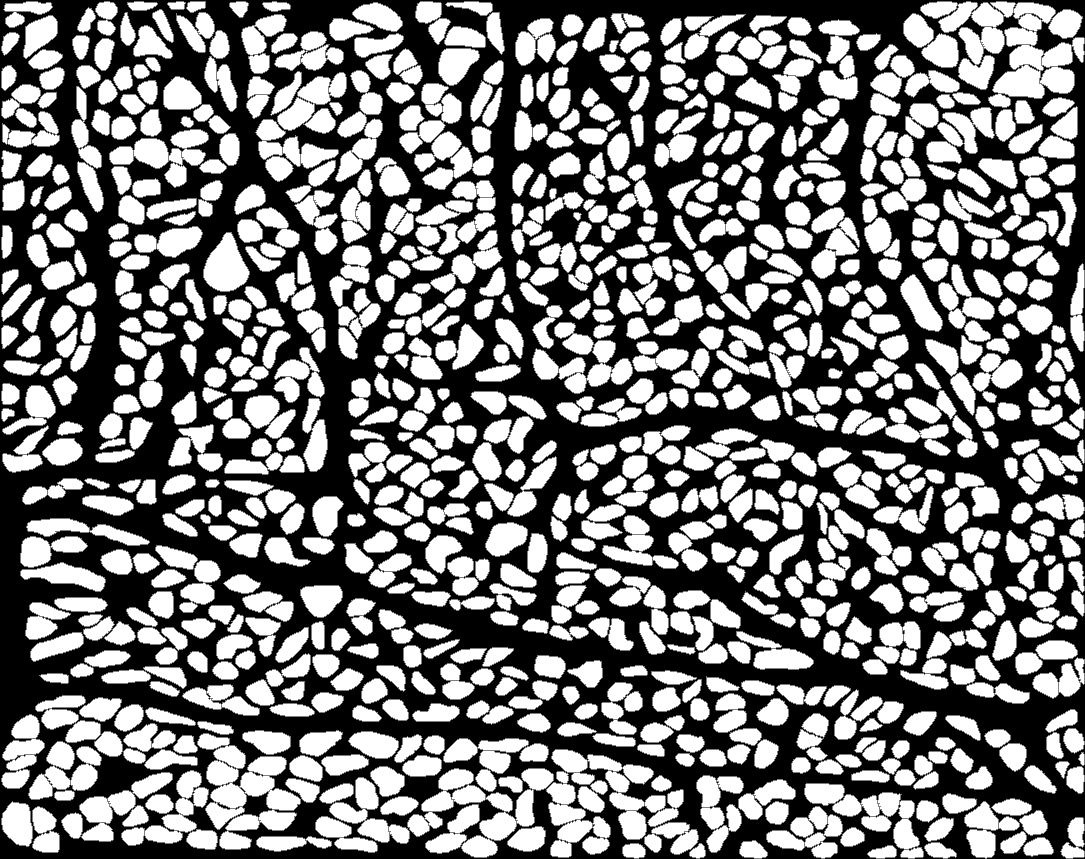
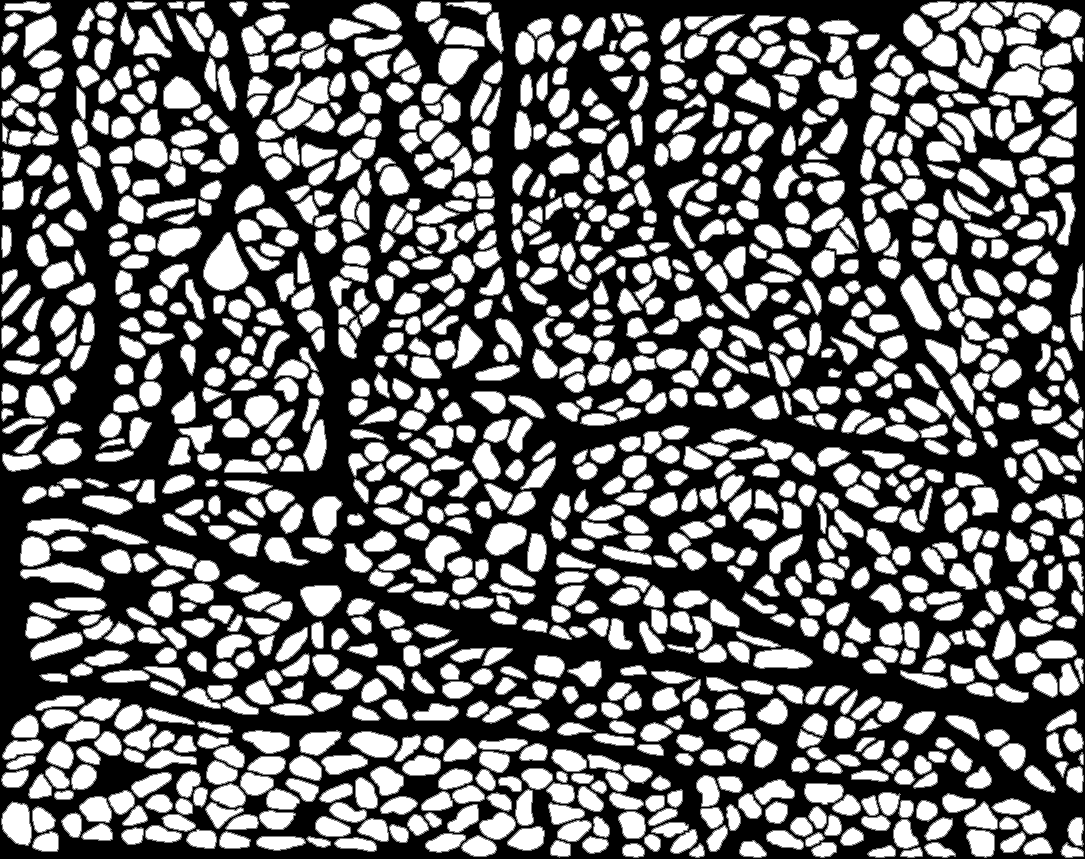
membrane with erosion

diff --git a/scripts/introduce_membrane.py b/scripts/introduce_membrane.py
@@ -4,33 +4,20 @@ import cv2
 import numpy as np
 
 img = cv2.imread('../segmentation_bw_original.png', 0)
+print cv2.__version__
 print type(img), img.shape
 
-# img = img / 255
-# print img.tolist()
+kernel = np.ones((3, 3), np.uint8)
+erosion = cv2.erode(img, kernel, iterations = 1)
 
-it =  np.nditer(img, op_flags=['readwrite'], order='C')
+membrane = cv2.bitwise_xor(img, erosion)
+# cells = cv2.bitwise_and(img, erosion)
 
-prev = 127
-while not it.finished:
-    dif = abs(prev - it[0])
-    if dif == 255 or dif == 1:
-        it[0] = 127
-    prev = it[0]
-    it.iternext()
+membrane /= 2
+out = membrane + erosion
 
-it =  np.nditer(img, op_flags=['readwrite'], order='F')
+cv2.imwrite('../segmentation_bw_new.png', out)
 
-prev = 127
-while not it.finished:
-    dif = abs(prev - it[0])
-    if dif == 255 or dif == 1:
-        it[0] = 127
-    prev = it[0]
-    it.iternext()
-
-cv2.imwrite('../segmentation_bw_new.png', img)
-
-# cv2.imshow('image', img)
+# cv2.imshow('image', erosion)
 # cv2.waitKey(0)
 # cv2.destroyAllWindows()
